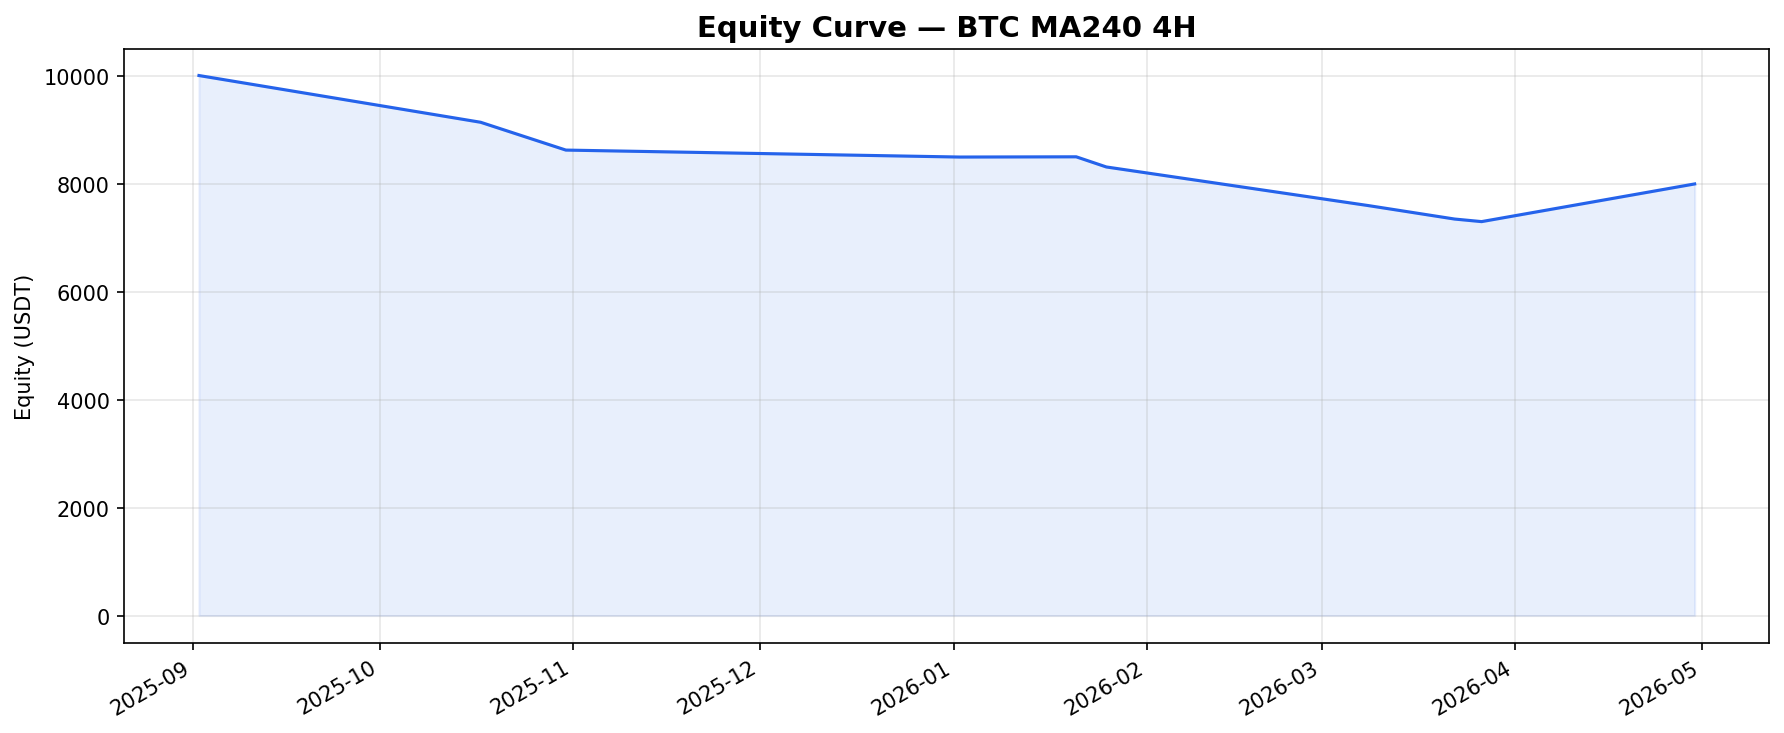
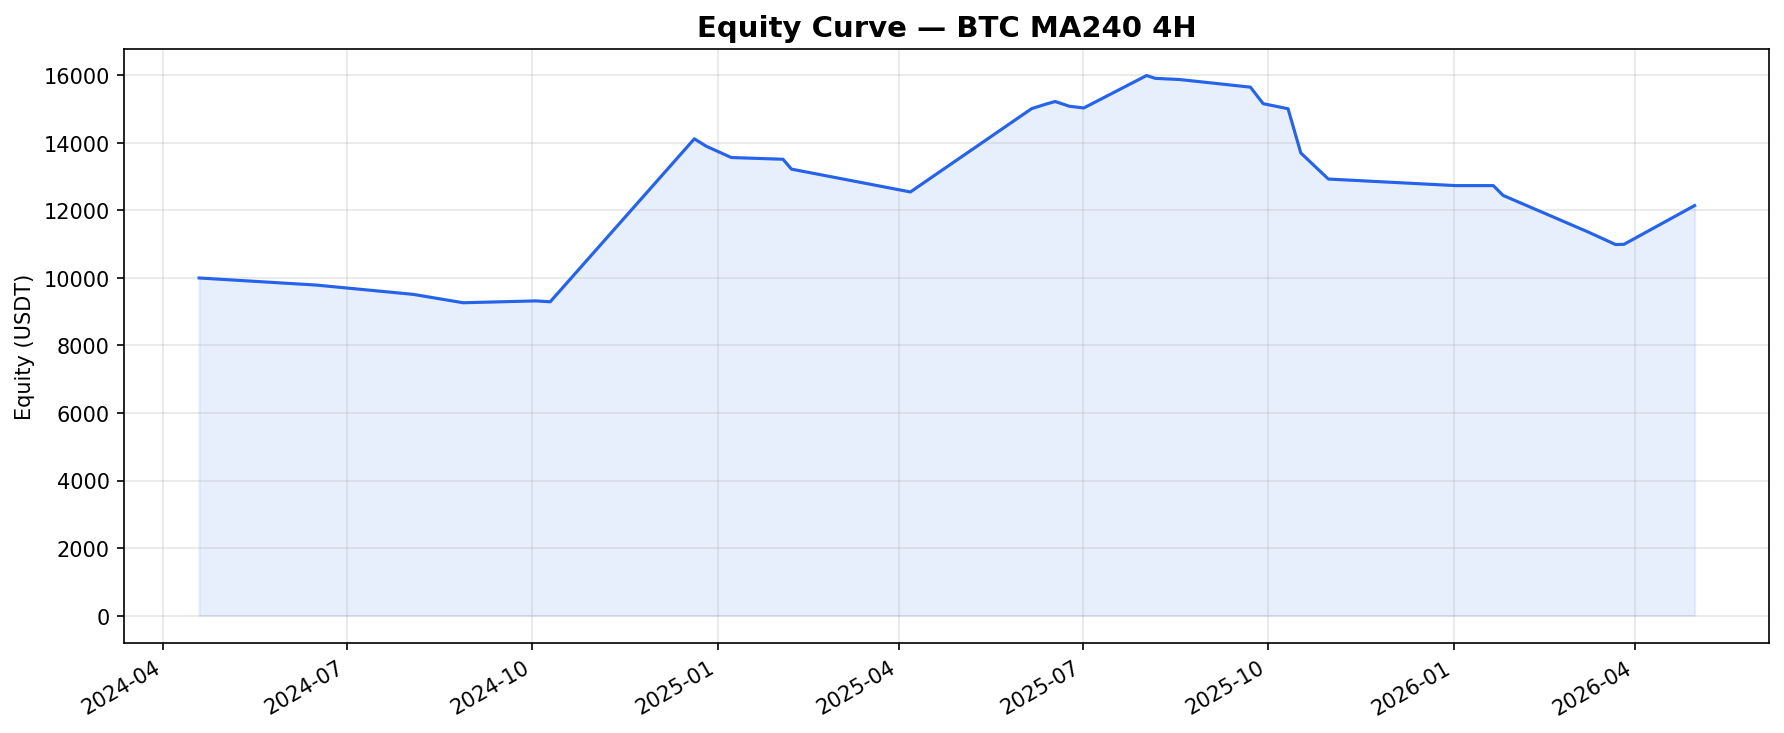
feat(F001): use local historical data for extended backtest
- Add load_local_history() to resample 1h→4h from local CSV
- run_strategy.py now combines local history + OKX recent data
- Backtest period extended from 240 days to 2 years (4451 candles)
- Results: 30 trades, +21.45% return, beats buy&hold +11.88%

diff --git a/run_strategy.py b/run_strategy.py
@@ -17,7 +17,7 @@ from pathlib import Path
 sys.path.insert(0, str(Path(__file__).parent))
 
 from strategies.btc_ma_trend.signal import StrategyConfig
-from pipeline.data_fetcher import fetch_candles, fetch_historical_candles
+from pipeline.data_fetcher import fetch_candles, load_local_history
 from pipeline.backtest import run_backtest
 from pipeline.report import (
     generate_status_json,
@@ -41,19 +41,38 @@ def main():
 
     print(f"[MeshHub] Running strategy: BTC {config.timeframe} MA{config.ma_window}")
 
-    # 1. Fetch data
-    print("[MeshHub] Fetching historical candle data from OKX...")
+    # 1. Load local historical data (resampled 1h→4h)
+    df_hist = None
     try:
-        df = fetch_historical_candles(
-            symbol=config.symbol,
-            bar=config.timeframe,
-            limit=1440,  # ~240 days of 4H data
-        )
+        df_hist = load_local_history()
+        print(f"[MeshHub] Loaded local history: {len(df_hist)} candles, "
+              f"{df_hist.iloc[0]['timestamp']} to {df_hist.iloc[-1]['timestamp']}")
     except Exception as e:
-        print(f"[MeshHub] Historical fetch failed, falling back to recent: {e}")
-        df = fetch_candles(symbol=config.symbol, bar=config.timeframe, limit=300)
+        print(f"[MeshHub] Local history not available: {e}")
 
-    print(f"[MeshHub] Got {len(df)} candles, from {df.iloc[0]['timestamp']} to {df.iloc[-1]['timestamp']}")
+    # 2. Fetch recent data from OKX (forward updates)
+    print("[MeshHub] Fetching recent candles from OKX...")
+    try:
+        df_recent = fetch_candles(symbol=config.symbol, bar=config.timeframe, limit=300)
+        print(f"[MeshHub] Got {len(df_recent)} recent candles from OKX")
+    except Exception as e:
+        print(f"[MeshHub] OKX fetch failed: {e}")
+        df_recent = None
+
+    # 3. Combine: local history + OKX recent (dedup by timestamp)
+    import pandas as pd
+    if df_hist is not None and df_recent is not None:
+        df = pd.concat([df_hist, df_recent], ignore_index=True)
+        df = df.drop_duplicates(subset="timestamp").sort_values("timestamp").reset_index(drop=True)
+    elif df_hist is not None:
+        df = df_hist
+    elif df_recent is not None:
+        df = df_recent
+    else:
+        print("[MeshHub] ERROR: No data available")
+        sys.exit(1)
+
+    print(f"[MeshHub] Combined: {len(df)} candles, {df.iloc[0]['timestamp']} to {df.iloc[-1]['timestamp']}")
 
     # 2. Run backtest
     print("[MeshHub] Running backtest...")

diff --git a/pipeline/data_fetcher.py b/pipeline/data_fetcher.py
@@ -1,10 +1,10 @@
-"""OKX market data fetcher.
+"""Market data fetcher.
 
-Fetches 4H BTC-USDT candle data from OKX public API.
-No authentication required for market data.
+Loads local historical data and fetches recent candles from OKX public API.
 """
 
 import time
+from pathlib import Path
 
 import pandas as pd
 import requests
@@ -12,6 +12,42 @@ import requests
 
 OKX_BASE_URL = "https://www.okx.com"
 MAX_CANDLES_PER_REQUEST = 100  # OKX limit per request
+
+# Default path to local historical 1h data
+LOCAL_HISTORY_PATH = Path.home() / "VSCode/SynologyDrive/backtest/history_data/normalized/BTC-USD_1h.csv"
+
+
+def load_local_history(
+    path: str | Path = LOCAL_HISTORY_PATH,
+    target_bar: str = "4H",
+) -> pd.DataFrame:
+    """Load local historical CSV and resample to target timeframe.
+
+    Args:
+        path: Path to normalized 1h CSV (columns: datetime,open,high,low,close,volume).
+        target_bar: Target candle interval (e.g., "4H").
+
+    Returns:
+        DataFrame with columns ['timestamp', 'open', 'high', 'low', 'close', 'volume'],
+        sorted oldest-first.
+    """
+    df = pd.read_csv(path, parse_dates=["datetime"])
+    df["datetime"] = pd.to_datetime(df["datetime"], utc=True)
+    df = df.set_index("datetime").sort_index()
+
+    resample_map = {"4H": "4h", "1H": "1h", "1D": "1D"}
+    freq = resample_map.get(target_bar, target_bar.lower())
+
+    resampled = df.resample(freq, offset="0h").agg({
+        "open": "first",
+        "high": "max",
+        "low": "min",
+        "close": "last",
+        "volume": "sum",
+    }).dropna()
+
+    resampled = resampled.reset_index().rename(columns={"datetime": "timestamp"})
+    return resampled
 
 
 def fetch_candles(
